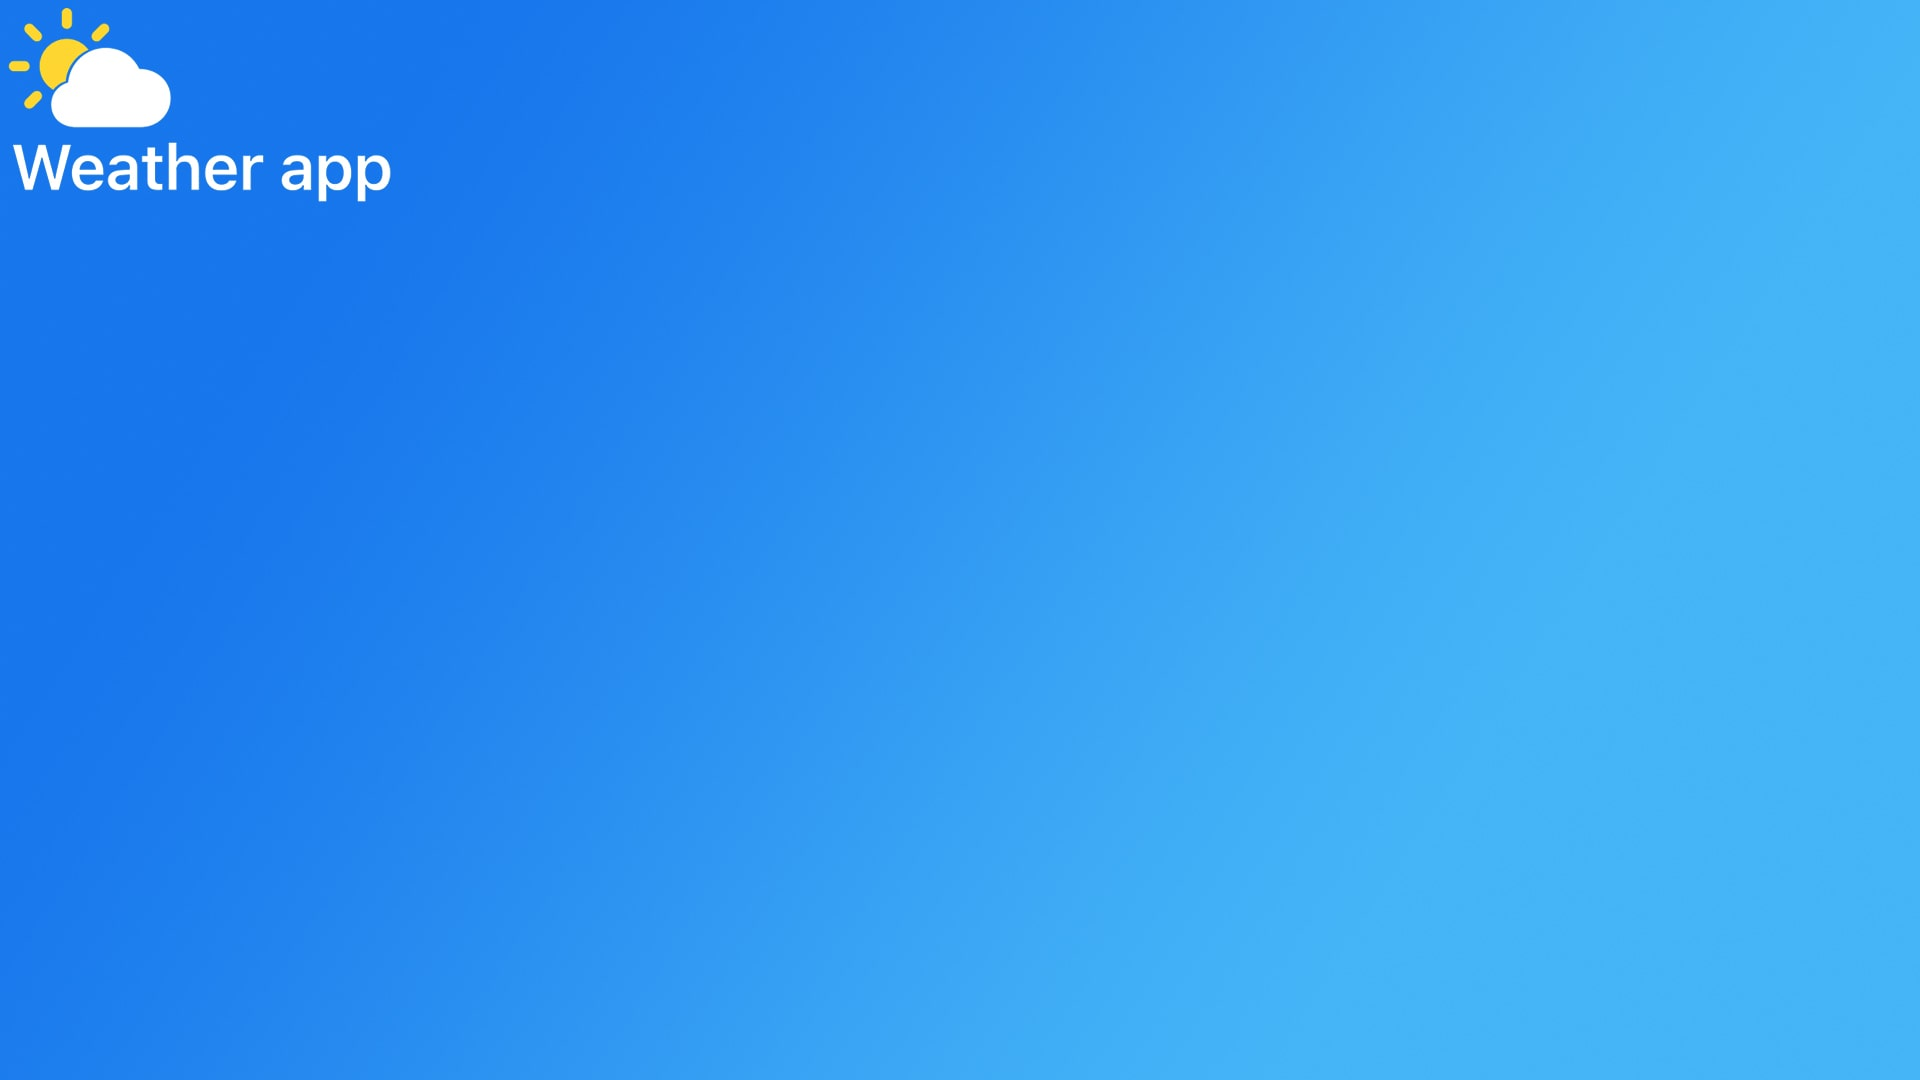
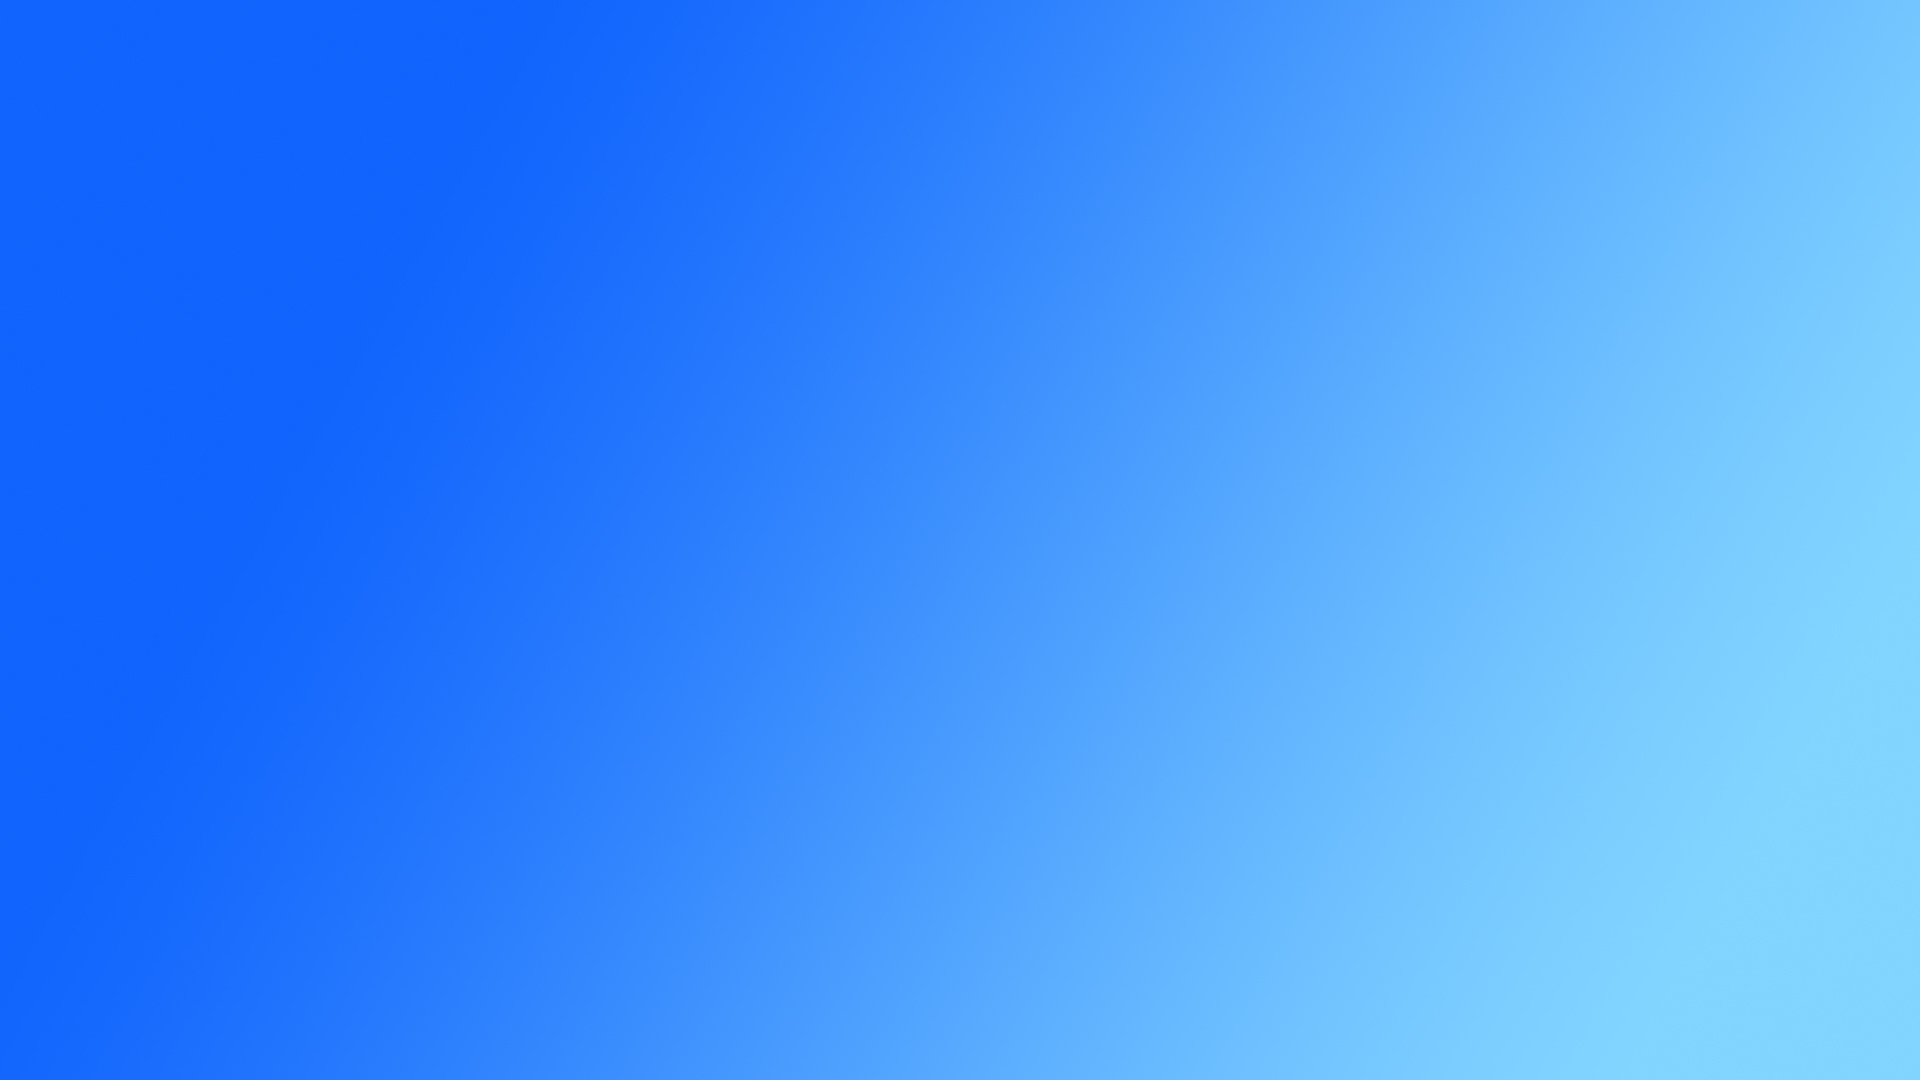
add animation

diff --git a/index.html b/index.html
@@ -181,12 +181,12 @@
 			</div>
 		</section>
 		<section class="weather__forecast">
-			<div class="block block-1">
+			<div class="block block-1 animation">
 				<div class="block__top">
 					<div class="block__top-temp day__two">
 						<span>12&deg;</span>
 					</div>
-					<img src="https://openweathermap.org/img/wn/02d@2x.png" alt="" class="block__top-img img__two">
+					<img src="https://openweathermap.org/img/wn/02d@2x.png" alt="" class="block__top-img img__two animation__icon">
 				</div>
 				<div class="block__descr descr__two">
 					облачно с прояснениями
@@ -195,12 +195,12 @@
 					2021-01-11
 				</div>
 			</div>
-			<div class="block block-1">
+			<div class="block block-2 animation">
 				<div class="block__top">
 					<div class="block__top-temp day__three">
 						<span>11&deg;</span>
 					</div>
-					<img src="https://openweathermap.org/img/wn/02d@2x.png" alt="" class="block__top-img img__three">
+					<img src="https://openweathermap.org/img/wn/02d@2x.png" alt="" class="block__top-img img__three animation__icon">
 				</div>
 				<div class="block__descr descr__three">
 					ясно
@@ -209,12 +209,12 @@
 					2021-01-12
 				</div>
 			</div>
-			<div class="block block-1">
+			<div class="block block-3 animation">
 				<div class="block__top">
 					<div class="block__top-temp day__four">
 						<span>10&deg;</span>
 					</div>
-					<img src="https://openweathermap.org/img/wn/02d@2x.png" alt="" class="block__top-img img__four">
+					<img src="https://openweathermap.org/img/wn/02d@2x.png" alt="" class="block__top-img img__four animation__icon">
 				</div>
 				<div class="block__descr descr__four">
 					облачно с прояснениями

diff --git a/script.js b/script.js
@@ -63,7 +63,6 @@ window.addEventListener('DOMContentLoaded', () => {
 				dateDayTwo.innerHTML = (data.list[5].dt_txt).slice(0, 10);
 				dateDayThree.innerHTML = (data.list[14].dt_txt).slice(0, 10);
 				dateDayFour.innerHTML = (data.list[22].dt_txt).slice(0, 10);
-				console.log(indexImg);
 
 				input.value = '';
 
@@ -84,15 +83,41 @@ window.addEventListener('DOMContentLoaded', () => {
 						body.style.background = `url('img/background-min.jpg') 0 0/cover no-repeat;`;
 				}
 
-
-
-		
 			})
 			.catch(function () {
 					
 			});
 
-			
+		/* animation weather forecast and background */
+		const blockOne = document.querySelector('.block-1'),
+					blockTwo = document.querySelector('.block-2'),
+					blockThree = document.querySelector('.block-3'),
+					iconOne = document.querySelector('.img__two'),
+					iconTwo = document.querySelector('.img__three'),
+					iconThree = document.querySelector('.img__four');
+
+		const animation = item => {
+			item.classList.add('active');
+		};
+
+		blockOne.classList.add('active');
+		setTimeout(animation, 100, blockTwo);
+		setTimeout(animation, 200, blockThree);
+		setTimeout(animation, 250, iconOne);
+		setTimeout(animation, 350, iconTwo);
+		setTimeout(animation, 450, iconThree);
 	});
+
+	/* animation title */
+	const container = document.querySelector('.container'),
+				title = document.querySelector('.center__title');
+
+	container.addEventListener('mousemove', (e) => {
+		let offsetX = (window.innerWidth / 2 - e.pageX) / 30;
+		let offsetY = (window.innerHeight / 2 - e.pageY) / 30;
+
+		title.style.transform = `rotateY(${offsetX}deg) rotateX(${offsetY}deg)`;
+	});
+	
 
 });

diff --git a/style.css b/style.css
@@ -19,6 +19,8 @@ nav,footer,header,aside{display: block;}
 html,body{
 	font-family: 'Yanone Kaffeesatz', sans-serif;
 	background: url('img/background-min.jpg') 0 0/cover no-repeat;
+	transition: all 1s ease 0s;
+	perspective: 2500px;
 	height: 100%;
 	width: 100%;
 	font-size: 100%;
@@ -50,6 +52,7 @@ h1,h2,h3,h4,h5,h6{font-size:inherit;font-weight: 400;}
 	border-radius: 30px;
 }
 .container {
+	background: url('img/logo.png') 0 0 no-repeat;
 	display: flex;
 	justify-content: center;
 	align-items: center;
@@ -106,6 +109,7 @@ h1,h2,h3,h4,h5,h6{font-size:inherit;font-weight: 400;}
 }
 .center__title {
 	font-size: 50px;
+	transform-style: preserve-3d;
 }
 .center__input {
 	display: block;
@@ -180,6 +184,9 @@ h1,h2,h3,h4,h5,h6{font-size:inherit;font-weight: 400;}
 	padding: 10px;
 	background-color: rgba(0, 0, 0, 0.4);
 	border-radius: 30px;
+	/* opacity: 0;
+	transform: translateX(-255px);
+	transition: all 2s; */
 }
 .block__top {
 	display: flex;
@@ -197,4 +204,20 @@ h1,h2,h3,h4,h5,h6{font-size:inherit;font-weight: 400;}
 	text-align: center;
 	font-size: 18px;
 	margin-top: 20px;
+}
+
+.animation {
+	opacity: 0;
+	transform: translateX(-100px);
+	transition: all 1s ease 0s;
+}
+.animation__icon {
+	opacity: 0;
+	transform: translateY(-80px);
+	transition: all 1s ease 0s;
+}
+.active {
+	opacity: 1;
+	transform: translateX(0px);
+	transition: all 1s ease 0s;
 }
